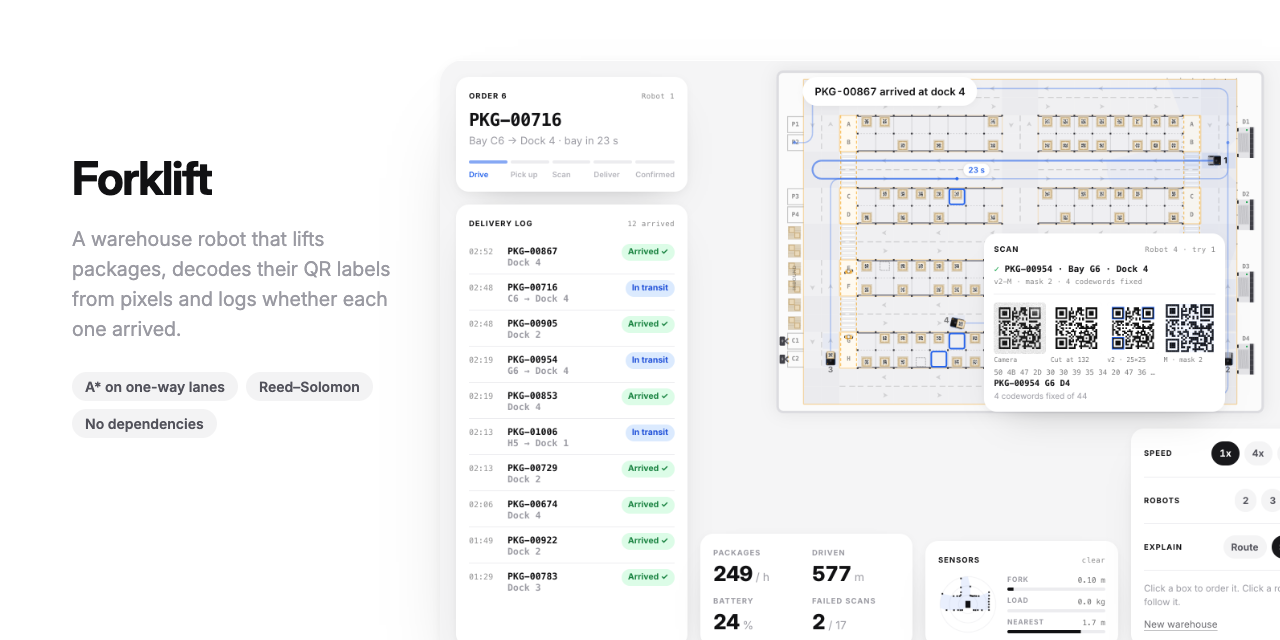
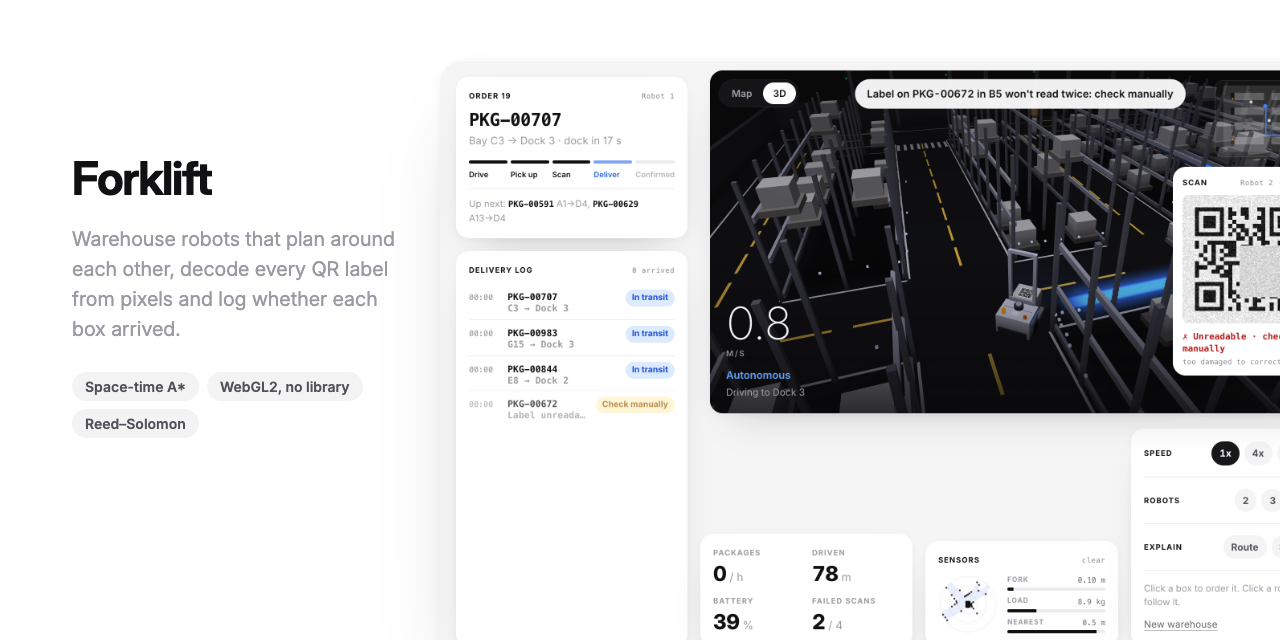
README and pictures for the 3D view

diff --git a/README.md b/README.md
@@ -3,7 +3,7 @@
 A fleet of forklift robots works a small warehouse in the browser: they plan the quickest routes around each other, lift packages out of their bays, decode each QR label from pixels and drop it at the right dock, while a delivery log checks every step. Plain JavaScript.
 
 <p align="center">
-  <a href="https://stxqq.github.io/forklift/"><img src=".github/assets/hero.gif" width="880" alt="A robot drives to bay C5 with its arrival time shown at the end of its blue route, lifts a box, the scan card decodes the label as PKG-00657, Bay C5, Dock 1 with three codewords corrected, and the delivery log marks it arrived at dock 1"></a>
+  <a href="https://stxqq.github.io/forklift/"><img src=".github/assets/hero.gif" width="880" alt="The 3D view: from behind and above, a robot lifts a box out of bay C5, the scan card decodes its label as PKG-00657, Bay C5, Dock 1, and the robot drives off along a glowing blue route between the racks, its speed and status in the corner"></a>
 </p>
 
 <p align="center">
@@ -45,6 +45,9 @@ order asked for.
 - **Drive**: ↑ ↓ to drive, ← → to turn, Space to work the fork, S to scan.
 - **Label lab**: type a label and watch the code being built step by step,
   scratch it, scan it, download it.
+
+Every mode can be watched on the floor plan or in 3D, from behind the robot
+in focus.
 
 ## How it works
 
@@ -133,6 +136,43 @@ the bytes.
 <p align="center">
   <img src=".github/assets/planner.png" width="880" alt="Dispatch with four robots and the route explainer on: the reservation table as a timeline per robot next to the stage, booked cells tinted on the floor and the focused robot's route with its arrival time">
 </p>
+
+## Two views
+
+<p align="center">
+  <img src=".github/assets/map.gif" width="880" alt="The floor plan: a robot drives to bay C5 with its arrival time at the end of its blue route, lifts a box, the scan card decodes the label, and the delivery log marks it arrived at dock 1">
+</p>
+
+The **Map** is the floor plan above: every robot, its route and arrival
+time, the boxes on the shelves, the people. The **3D** view is what the
+robot in focus sees, in the style of a car's self-driving display: a dark
+floor with the lane lines drawn in light grey and yellow, racks, pallets
+and boxes at their real heights, people as soft capsules with a hint of
+their vests, and the route as a glowing blue ribbon that dims and pulses
+while the robot waits for a cell. The safety field is a fan on the floor
+that turns amber or red when someone is in it, the lidar returns are faint
+dots, and the box it's going for has a blue outline. The corners show the
+speed, a status line ("Driving to Bay C6", "Waiting · Robot 2 has the cells
+ahead", "Lifting", "Scanning"), a mode icon and a mini map. The choice is
+remembered in your browser.
+
+<p align="center">
+  <img src=".github/assets/view3d.png" width="880" alt="The 3D view with four robots: the robot in focus carrying a box toward dock 3 between the racks, other robots and boxes as matte grey shapes, the speed 0.8 m/s with Autonomous and Driving to Dock 3 under it, a mini map top right and the scan card of another robot's unreadable label">
+</p>
+
+It's a small WebGL2 renderer written for this, no library: instanced boxes,
+cylinders and capsules lit by a sun and a sky light, soft contact shadows
+under everything, darkening near the floor as a cheap stand-in for ambient
+occlusion, fog to black, and the ribbon drawn once additively and once more
+into a half-size buffer that is blurred and added on top, masked by
+whatever stands in front of it. The canvas's multisampling smooths the
+edges. The chase camera eases toward a point behind and above the robot at
+a rate that doesn't depend on the frame rate, follows it round corners, and
+holds its bearing while the robot turns on the spot to a bay, so it never
+swings into the racks. Both views draw the same interpolated sim state, and
+a test checks that the 3D scene can't change what the robots do. With
+reduced motion the camera keeps one bearing; without WebGL2 the page says
+so and stays on the map.
 
 ## Label lab
 
@@ -254,6 +294,10 @@ in 1,351 scans.
   the fork docks itself straight before it reaches into a bay.
 - **Physics is kinematic.** No wheel slip, no load swinging, and the battery
   is a counter.
+- **The 3D view is for watching.** Boxes are ordered on the map; the 3D
+  scene uses blob shadows and height darkening rather than real shadow maps
+  or screen-space ambient occlusion, and the glow mask is half resolution,
+  so a thin halo can show round a mast.
 
 ## Project layout
 
@@ -262,8 +306,9 @@ src/sim/       warehouse, planner (space-time A*), robot, collide, world
                (reservations, dispatch, people, jobs), orders and log,
                qr and rs (no DOM)
 src/render/    canvas stage, robot drawing, anatomy spec sheet
+src/render3d/  WebGL2 renderer, scene building, chase camera, matrices
 src/lab/       PNG and SVG label export
-src/ui/        the page: sessions, label lab, explainers, controls
+src/ui/        the page: sessions, 3D view and HUD, label lab, explainers
 scripts/       bench.mjs, results.json, check-vision.mjs, png.mjs
 test/          node:test suites
 ```
